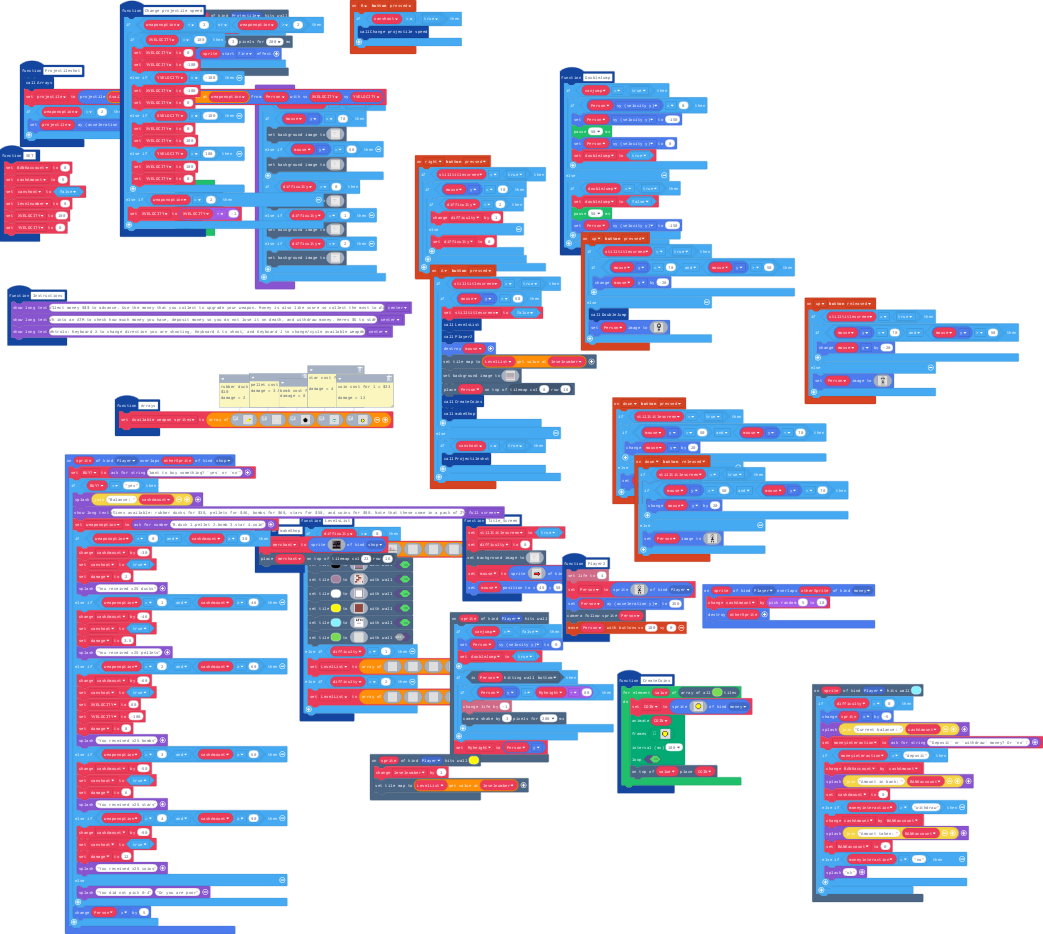
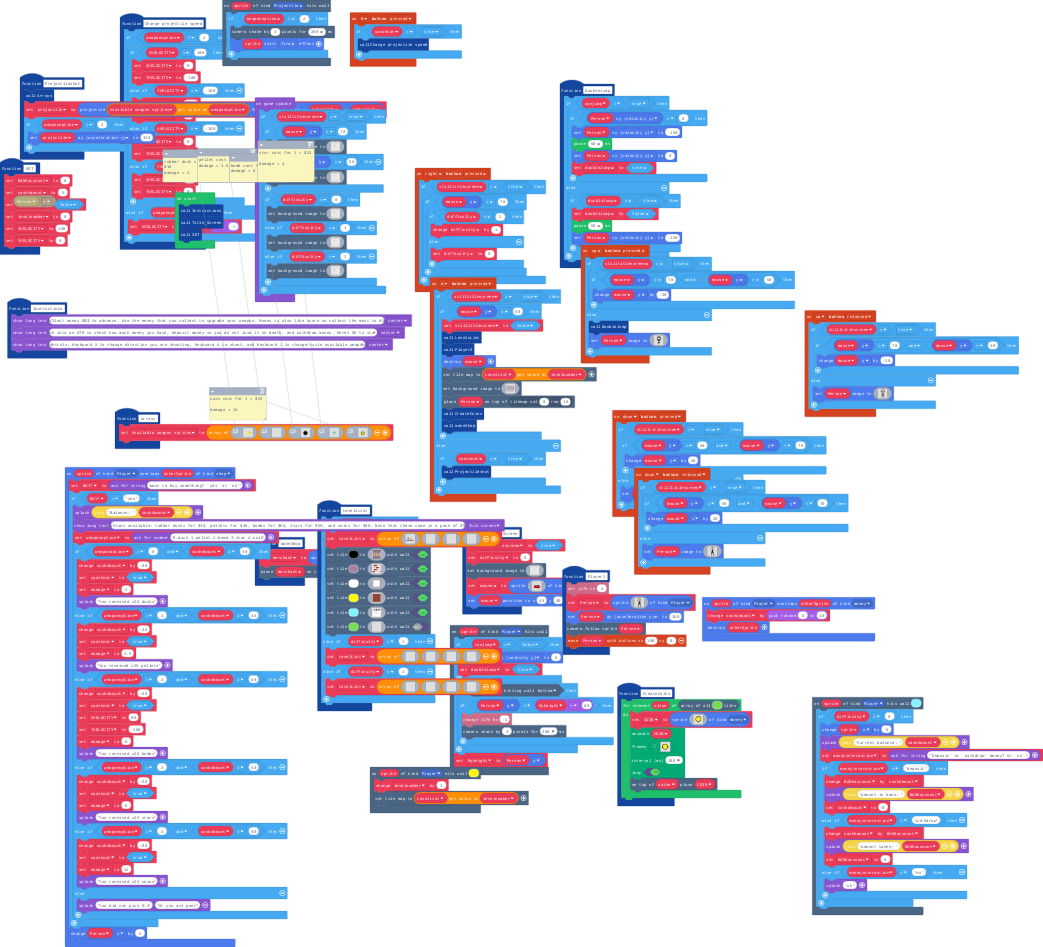
please save v2

Changed region(s): [[0.0, 0.0, 0.9818, 0.9936], [0.767, 0.7141, 1.0, 0.9625]]

diff --git a/main.ts b/main.ts
@@ -2,6 +2,7 @@ namespace SpriteKind {
     export const cursor = SpriteKind.create()
     export const money = SpriteKind.create()
     export const shop = SpriteKind.create()
+    export const arrow = SpriteKind.create()
 }
 controller.up.onEvent(ControllerButtonEvent.Released, function () {
     if (stilltitlescreen == true) {
@@ -47,6 +48,13 @@ scene.onHitTile(SpriteKind.Player, 9, function (sprite) {
         }
     }
 })
+function Projectileshot () {
+    Arrays()
+    projectile = sprites.createProjectileFromSprite(Available_weapon_sprites[weaponoption], Person, XVELOCITY, YVELOCITY)
+    if (weaponoption == 2) {
+        projectile.ay = 320
+    }
+}
 function Change_projectile_speed () {
     if (weaponoption < 2 || weaponoption > 2) {
         if (XVELOCITY == 100) {
@@ -65,21 +73,6 @@ function Change_projectile_speed () {
     } else if (weaponoption == 2) {
         XVELOCITY = XVELOCITY * -1
     }
-}
-function Projectileshot () {
-    Arrays()
-    projectile = sprites.createProjectileFromSprite(Available_weapon_sprites[weaponoption], Person, XVELOCITY, YVELOCITY)
-    if (weaponoption == 2) {
-        projectile.ay = 320
-    }
-}
-function SET () {
-    BANKaccount = 0
-    cashAmount = 5
-    canshoot = false
-    levelnumber = 0
-    XVELOCITY = 100
-    YVELOCITY = 0
 }
 function LevelsList () {
     if (difficulty == 0) {
@@ -745,8 +738,8 @@ sprites.onOverlap(SpriteKind.Player, SpriteKind.shop, function (sprite, otherSpr
         } else {
             game.splash("You did not pick 0-4", "Or you are poor")
         }
-        Person.x += 5
     }
+    Person.x += 5
 })
 function Player2 () {
     info.setLife(4)
@@ -1234,6 +1227,15 @@ function DoubleJump () {
         }
     }
 }
+function SET () {
+    BANKaccount = 0
+    cashAmount = 5
+    canshoot = false
+    levelnumber = 0
+    XVELOCITY = 100
+    YVELOCITY = 0
+}
+let levelnumber = 0
 let damage = 0
 let BUY = ""
 let COIN: Sprite = null
@@ -1241,14 +1243,13 @@ let merchant: Sprite = null
 let Myheight = 0
 let doubleJump = false
 let canjump = false
-let LevelList: Image[] = []
-let levelnumber = 0
 let canshoot = false
-let Available_weapon_sprites: Image[] = []
-let projectile: Sprite = null
+let LevelList: Image[] = []
 let YVELOCITY = 0
 let XVELOCITY = 0
 let weaponoption = 0
+let Available_weapon_sprites: Image[] = []
+let projectile: Sprite = null
 let BANKaccount = 0
 let moneyinteraction = ""
 let cashAmount = 0
